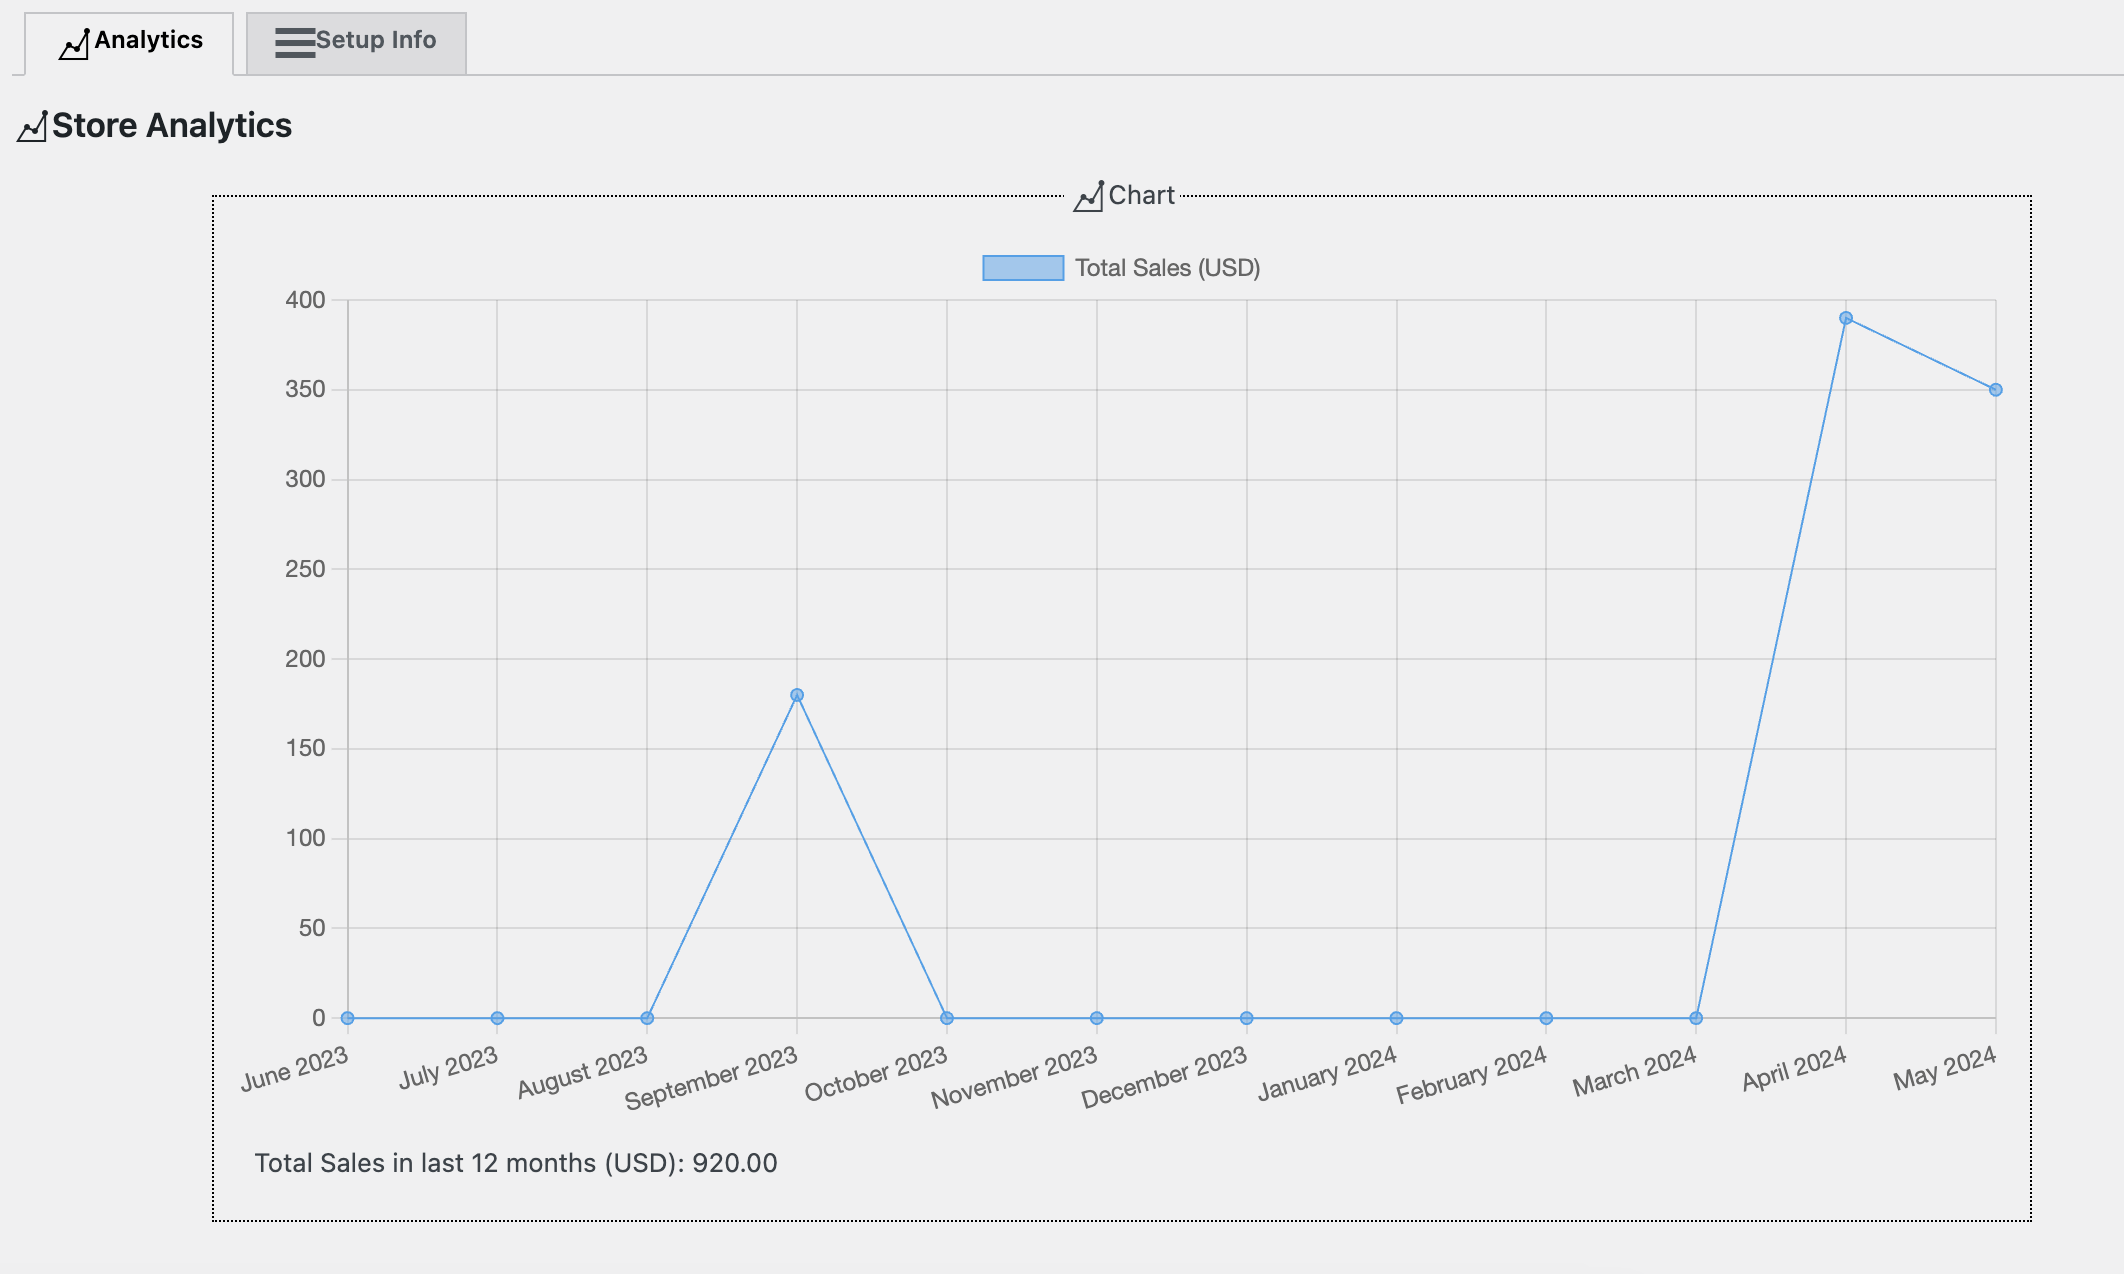
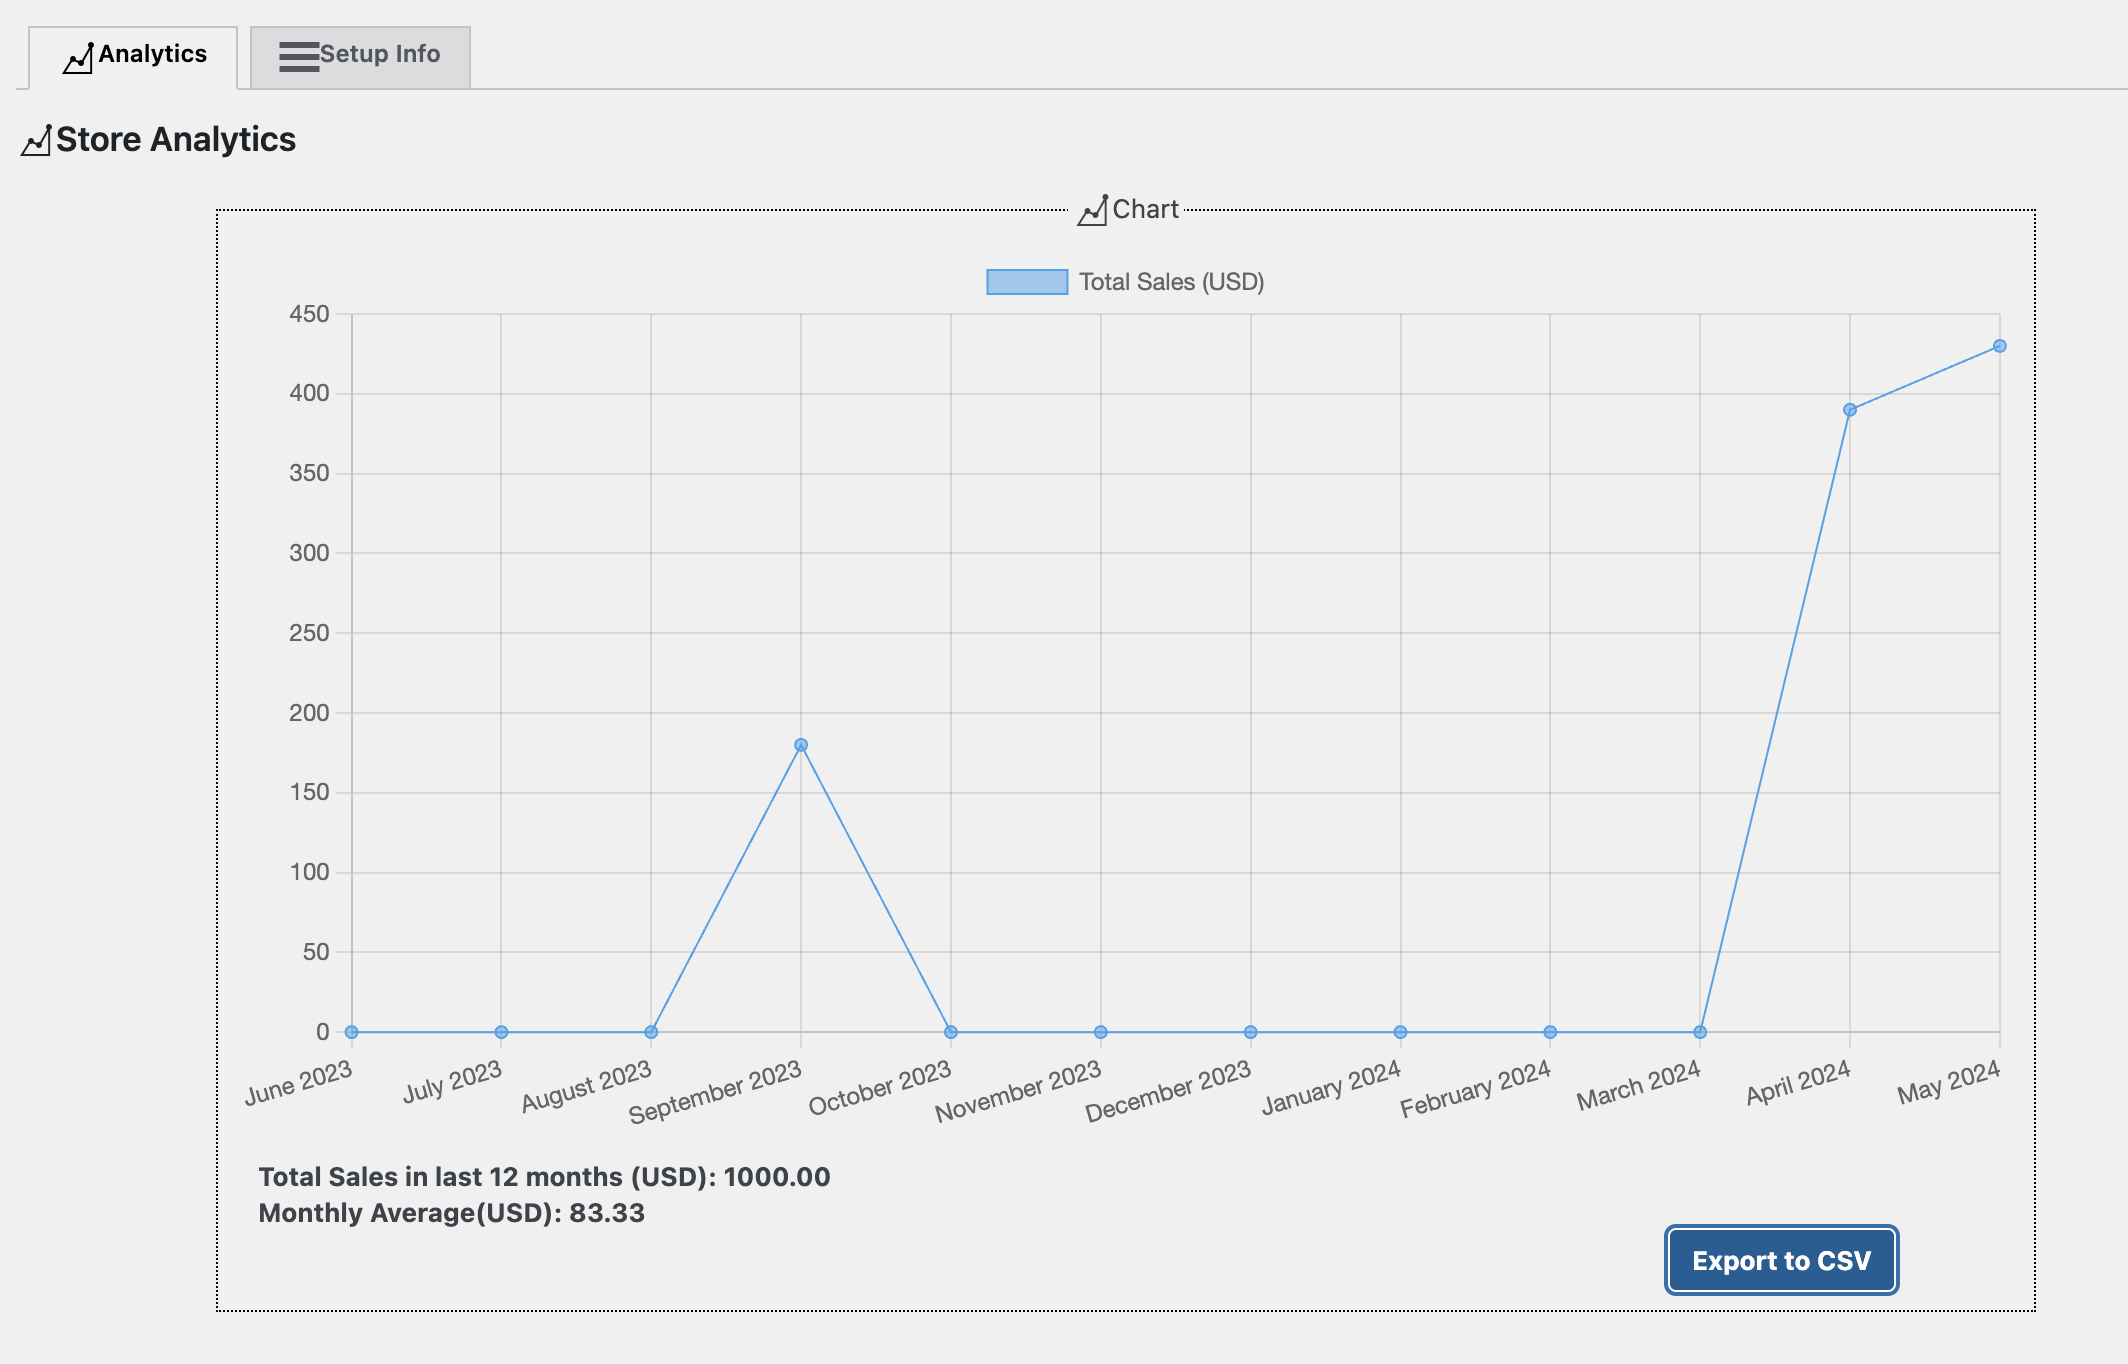
Export to csv added

diff --git a/js/analytics.js b/js/analytics.js
@@ -1,6 +1,10 @@
 document.addEventListener('DOMContentLoaded',()=>{
 
-
+/**
+ * @since 1.0.0
+ * 
+ * Create chart based on data
+ */
 
     const ctx = document.getElementById('myChart');
    
@@ -22,4 +26,72 @@ document.addEventListener('DOMContentLoaded',()=>{
       }
     }
   });
+
+/**
+ * 
+ *  @since 1.0.0
+ * 
+ * Send REST Request
+ */
+
+
+document.querySelector('#ctcla-export-csv-submit').addEventListener('click', async(e)=>{
+
+
+e.preventDefault();
+
+
+
+ // Function to convert an array of objects to CSV format with custom headers
+ function objectToCSV(objArray, headers = {}) {
+  const keys = Object.keys(objArray[0]);
+  const csvHeaders = keys.map(key => headers[key] || key);
+
+  const array = [csvHeaders].concat(objArray.map(obj => 
+      keys.map(key => 
+          typeof obj[key] === 'string' ? JSON.stringify(obj[key]) : obj[key]
+      )
+  ));
+
+  return array.map(row => row.join(',')).join('\n');
+}
+
+
+  // Function to trigger a download of the CSV file
+  function downloadCSV(csvContent, filename) {
+    const blob = new Blob([csvContent], { type: 'text/csv;charset=utf-8;' });
+    const link = document.createElement("a");
+    const url = URL.createObjectURL(blob);
+    link.setAttribute("href", url);
+    link.setAttribute("download", filename);
+    document.body.appendChild(link);
+    link.click();
+    document.body.removeChild(link);
+}
+
+
+// Custom headers mapping
+const headers = {
+  0: "Month",
+ 1: ctclAnalyticsObject.sales,
+
+};
+
+let obj  = ctclAnalyticsObject.data.map(x=>[x[0],Number(x[1]).toFixed(2)])
+
+  // Convert the object array to CSV
+  const csvContent = objectToCSV(obj,headers);
+
+
+  downloadCSV(csvContent, 'Sales_Report.csv');
+  
+} );
+
+
+
+
+
+
+
+
 });

diff --git a/css/analytics.css b/css/analytics.css
@@ -23,3 +23,16 @@
     display:block;
 
 }
+
+.ctcla-sales-export .ctclASales,
+.ctcla-sales-export .ctcla-export-csv{
+    display:block;
+}
+.ctcla-sales-export .ctclASales{
+    font-weight: bold;
+
+}
+.ctcla-sales-export .ctcla-export-csv input{
+    float:right;
+    margin-right: 50px;
+}

diff --git a/ctcl-analytics.php b/ctcl-analytics.php
@@ -27,8 +27,14 @@ public function __construct() {
     add_action('admin_enqueue_scripts', function(){ wp_enqueue_style( 'ctclAnalyticsAdminCss', CTCLA_DIR_PATH.'css/analytics.css');  });
     add_filter('ctcl-info-tab-sub-tab', array($this, 'ctclSubTabHtml'),20, 1 );
     add_filter('script_loader_tag', array($this,'AddTagToScript' ) , 10, 3);
+   
 
 }
+
+
+
+
+
 
 /**
  * @since 1.0.0
@@ -87,11 +93,19 @@ public function __construct() {
 <div class="ctclAChart">
   <canvas id="myChart"></canvas>
 </div>
-
+<div class="ctcla-sales-export">
 <div class='ctclASales'>
-    <span><?php echo __('Total Sales in last 12 months ')."(".get_option('ctcl_currency')."):" ?></span>
+    <div>
+    <span><?php echo __('Total Sales in last 12 months ' ,'ctcl-analytics')."(".get_option('ctcl_currency')."):" ?></span>
     <span><?php echo number_format((float)$sales, 2, '.', ''); ?></span>
+    <div>
+    <span><?php echo __('Monthly Average','ctcl-analytics')."(".get_option('ctcl_currency')."):";?></span>
+    <span><?php echo number_format((float)($sales/12), 2, '.', ''); ?></span>
  </div>
+ <div  class = 'ctcla-export-csv' id="ctcla-export-csv" >
+    
+ <?php submit_button( __( 'Export to CSV', 'ctcl-analytics' ), 'primary','ctcla-export-csv-submit',false ); ?>
+</div>
  </fieldset>
  </div>
  </div>
@@ -115,6 +129,7 @@ public function ctclAEnequeScript(){
      wp_localize_script('ctclAnalyticsAdminJs','ctclAnalyticsObject', array(
         'sales'=>__('Total Sales (', 'ctcl-analytics').get_option('ctcl_currency').')',
         'data'=>$this->ctclaChartData(),
+        'restUrl'=>rest_url( 'custom/v1/create-csv/' )
     ));
 }
 
